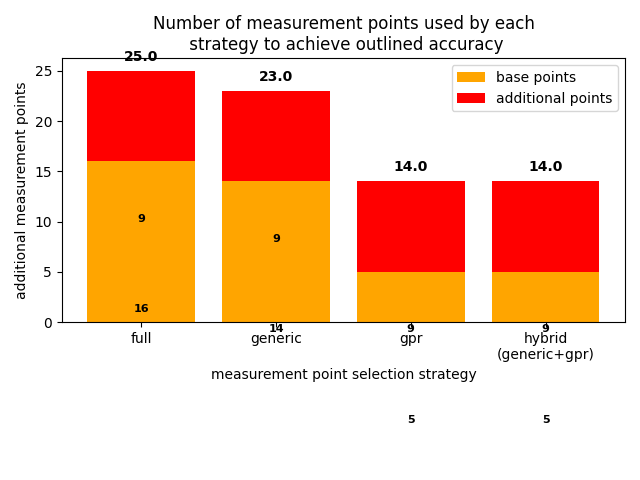
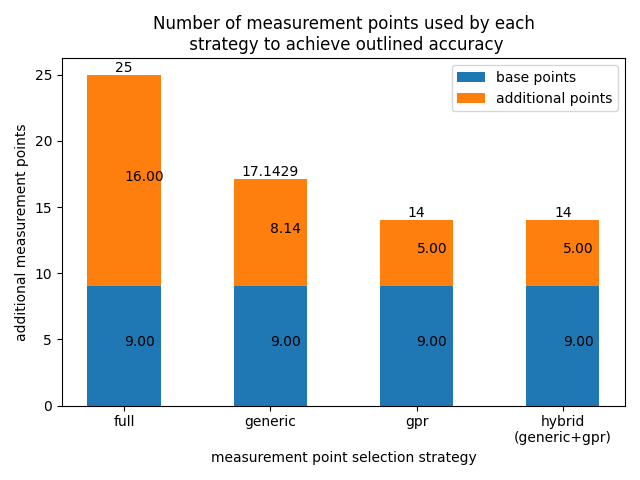
finished plots for case study

diff --git a/case_study.py b/case_study.py
@@ -33,6 +33,7 @@ from extrap.entities.measurement import Measurement
 import matplotlib.pyplot as plt
 import numpy as np
 import pandas as pd
+from plotting import plot_measurement_point_number, plot_model_accuracy, plot_costs
 
 def percentage_error(true_value, measured_value):
     error = abs(true_value - measured_value)
@@ -621,6 +622,10 @@ def main():
 
                 #print("selected_points:",selected_points)
 
+                # calculate the cost for the selected base points
+                base_point_cost = calculate_selected_point_cost(selected_points, experiment, callpath_id, metric_id)
+                base_point_cost = base_point_cost / (total_cost / 100)
+
                 # add some additional single points
 
                 # select x cheapest measurement(s) that are not part of the list so far
@@ -797,76 +802,54 @@ def main():
                 pass
 
 
-        print("kernels_used:",kernels_used)
+        print("Number of kernels used:",kernels_used)
+
+        #TODO: until the other strategies are working
+        acurracy_bucket_counter_gpr = copy.deepcopy(acurracy_bucket_counter_generic)
+        acurracy_bucket_counter_hybrid = copy.deepcopy(acurracy_bucket_counter_generic)
 
         print("acurracy_bucket_counter_full:",acurracy_bucket_counter_full)
         print("acurracy_bucket_counter_generic:",acurracy_bucket_counter_generic)
+        print("acurracy_bucket_counter_generic:",acurracy_bucket_counter_gpr)
+        print("acurracy_bucket_counter_generic:",acurracy_bucket_counter_hybrid)
 
         # calculate the percentages for each accuracy bucket
-        nr_callpaths = len(experiment.callpaths)
         percentage_bucket_counter_full = calculate_percentage_of_buckets(acurracy_bucket_counter_full, kernels_used)
         print("percentage_bucket_counter_full:",percentage_bucket_counter_full)
         percentage_bucket_counter_generic = calculate_percentage_of_buckets(acurracy_bucket_counter_generic, kernels_used)
         print("percentage_bucket_counter_generic:",percentage_bucket_counter_generic)
+        percentage_bucket_counter_gpr = calculate_percentage_of_buckets(acurracy_bucket_counter_gpr, kernels_used)
+        print("percentage_bucket_counter_gpr:",percentage_bucket_counter_gpr)
+        percentage_bucket_counter_hybrid = calculate_percentage_of_buckets(acurracy_bucket_counter_hybrid, kernels_used)
+        print("percentage_bucket_counter_hybrid:",percentage_bucket_counter_hybrid)
 
+        # plot the results of the model accuracy analysis
+        plot_model_accuracy(percentage_bucket_counter_full, percentage_bucket_counter_generic, percentage_bucket_counter_gpr, percentage_bucket_counter_hybrid)
         
-
-        X = ['+-5%','+-10%','+-15%','+-20%']
-        full = [percentage_bucket_counter_full["5"], 
-                percentage_bucket_counter_full["10"], 
-                percentage_bucket_counter_full["15"], 
-                percentage_bucket_counter_full["20"]]
-        generic = [percentage_bucket_counter_generic["5"],
-                    percentage_bucket_counter_generic["10"],
-                    percentage_bucket_counter_generic["15"],
-                    percentage_bucket_counter_generic["20"]]
-
-        X_axis = np.arange(len(X))
-
-        b1 = plt.bar(X_axis - 0.2, full, 0.4, label = 'Full matrix points')
-        b2 = plt.bar(X_axis + 0.2, generic, 0.4, label = 'Generic Strategy')
-
-        plt.bar_label(b1, label_type='edge')
-        plt.bar_label(b2, label_type='edge')
-        
-        plt.xticks(X_axis, X)
-        plt.xlabel("Accuracy Buckets")
-        plt.ylabel("Percentage of models")
-        plt.title("Percentage of Models in each Accuracy Bucket")
-        plt.legend()
-        plt.savefig('accuracy.png')
-        plt.show()
-        
-        mean_budget_generic = np.mean(percentage_cost_generic_container)
+        mean_budget_generic = np.nanmean(percentage_cost_generic_container)
         print("mean_budget_generic:",mean_budget_generic)
 
-        mean_add_points_generic = np.mean(add_points_generic_container)
+        mean_add_points_generic = np.nanmean(add_points_generic_container)
         print("mean_add_points_generic:",mean_add_points_generic)
 
         #TODO: calculate this mean_budget_gpr
-        mean_budget_gpr = 10
+        mean_budget_gpr = base_point_cost+10
 
         #TODO: calculate this mean_budget_hybrid
-        mean_budget_hybrid = 15
+        mean_budget_hybrid = base_point_cost+15
 
-        mean_budget_generic = float("{:.2f}".format(mean_budget_generic))
-        mean_budget_gpr = float("{:.2f}".format(mean_budget_gpr))
-        mean_budget_hybrid = float("{:.2f}".format(mean_budget_hybrid))
+        used_costs = {
+            "base points": np.array([base_point_cost, base_point_cost, base_point_cost, base_point_cost]),
+            "additional points": np.array([100-base_point_cost, mean_budget_generic-base_point_cost, mean_budget_gpr-base_point_cost, mean_budget_hybrid-base_point_cost]),
+        }
 
-        langs = ["full", "generic", "gpr", "hybrid\n(generic+gpr)"]
-        cost = [100, mean_budget_generic, mean_budget_gpr, mean_budget_hybrid]
-        
-        b1 = plt.bar(langs, cost, 0.4)
-        
-        plt.bar_label(b1, label_type='edge')
-        
-        plt.xticks(np.arange(len(langs)), langs)
-        plt.xlabel("masurement point selection strategy")
-        plt.ylabel("percentage of budget")
-        plt.title("Modeling Budget used by each strategy to achieve outlined accuracy")
-        plt.tight_layout()
-        plt.savefig('cost.png')
-        plt.show()
+        # plot the analysis result for the costs and budgets
+        plot_costs(used_costs, base_point_cost)
+
+        add_points = {
+            "base points": np.array([min_points, min_points, min_points, min_points]),
+            "additional points": np.array([len(experiment.coordinates)-min_points, mean_add_points_generic, 5, 5]),
+        }
 
         #TODO: calculate this mean_budget_gpr
         mean_add_points_gpr = 10
@@ -874,102 +857,12 @@ def main():
         #TODO: calculate this mean_budget_hybrid
         mean_add_points_hybrid = 15
 
-        #add_points = [len(experiment.coordinates), mean_add_points_generic, mean_add_points_gpr, mean_add_points_hybrid]
-        add_points = {
-            "base points": np.array([min_points, min_points, min_points, min_points]),
-            "additional points": np.array([len(experiment.coordinates)-min_points, mean_add_points_generic, 5, 5]),
-        }
-
-        print(min_points)
-
-        fig, ax = plt.subplots()
-        bottom = np.zeros(4)
-
-        for boolean, add_point in add_points.items():
-            p = ax.bar(langs, add_point, 0.5, label=boolean, bottom=bottom)
-            bottom += add_point
-        ax.bar_label(p, label_type='edge')
-        ax.legend(loc="upper right")
-        plt.xlabel("measurement Point selection strategy")
-        plt.ylabel("additional measurement points")
-        plt.title("Number of measurement points used by each\n strategy to achieve outlined accuracy")
-        plt.tight_layout()
-        plt.savefig('additional_points.png')
-        plt.show()
-        
-        """b1 = plt.bar(langs, add_points, 0.4)
-        
-        plt.bar_label(b1, label_type='edge')
-        
-        plt.xticks(np.arange(len(langs)), langs)
-        plt.xlabel("measurement Point selection strategy")
-        plt.ylabel("additional measurement points")
-        plt.title("Additional measurement points used by each\n strategy to achieve outlined accuracy")
-        plt.tight_layout()
-        plt.savefig('additional_points.png')
-        plt.show()"""
-            
-
-
-        from plotting import plot_measurement_point_number
-        
-        """tips = sns.load_dataset('tips')
-        # Let's massage the data a bit to be aggregated by day of week, with
-        # columns for each gender. We could leave it in long format as well (
-        # with gender as values in a single column).
-        agg_tips = tips.groupby(['day', 'sex'])['tip'].sum().unstack().fillna(0)
-
-        print("agg_tips:",agg_tips)
-        """
-        
-
-        #[min_points, min_points, min_points, min_points]
-        #[len(experiment.coordinates)-min_points, mean_add_points_generic, 5, 5]
-
-        df1 = pd.DataFrame([
-            ["additional points", "full", len(experiment.coordinates)-min_points],
-            ["additional points", "generic", mean_add_points_generic],
-            ["additional points", "gpr", 5],
-            ["additional points", "hybrid\n(generic+gpr)", 5],
-            ["base points","full", min_points],
-            ["base points","generic", min_points],
-            ["base points","gpr", min_points],
-            ["base points", "hybrid\n(generic+gpr)", min_points]
-                            ], index=["a", "b", "c", "d", "e", "f", "g", "h"], columns=["type", "strategy", "value"])
-        df2 = pd.DataFrame(data=df1, index=["a", "b", "c", "d", "e", "f", "g", "h"])
-        print(df2)
-
-        #TODO: need to get the type in the right order... is shown incorrectly in the chart...
-        # base need to be on the bottom part...
-
-        agg_df2 = df2.groupby(['strategy', 'type'])['value'].sum().unstack().fillna(0)
-        #agg_df2.sort_values(by="type") 
-
-        print(agg_df2)
-
-        plot_measurement_point_number(agg_df2)
-
-        
-
-
-
-
-        # format modeler output into text
-        #text = format_output(experiment, printtype)
-
-        # print formatted output to command line
-        #print(text)
-
-        # save formatted output to text file
-        #if print_output:
-        #    save_output(text, print_path)
+        # plot the analysis result for the additional measurement point numbers
+        plot_measurement_point_number(add_points, min_points)
 
     else:
         logging.error("No file path given to load files.")
         sys.exit(1)
-    
-
 
 if __name__ == "__main__":
     main()
-

diff --git a/plotting.py b/plotting.py
@@ -1,59 +1,116 @@
 from matplotlib import pyplot as plt
 import numpy as np
 
-def plot_measurement_point_number(agg_tips):
-  
+def plot_model_accuracy(percentage_bucket_counter_full, percentage_bucket_counter_generic, percentage_bucket_counter_gpr, percentage_bucket_counter_hybrid):
+    X = ['+-5%','+-10%','+-15%','+-20%']
+    full = [percentage_bucket_counter_full["5"], 
+            percentage_bucket_counter_full["10"], 
+            percentage_bucket_counter_full["15"], 
+            percentage_bucket_counter_full["20"]]
+    generic = [percentage_bucket_counter_generic["5"],
+                percentage_bucket_counter_generic["10"],
+                percentage_bucket_counter_generic["15"],
+                percentage_bucket_counter_generic["20"]]
+    gpr = [percentage_bucket_counter_gpr["5"],
+                percentage_bucket_counter_gpr["10"],
+                percentage_bucket_counter_gpr["15"],
+                percentage_bucket_counter_gpr["20"]]
+    hybrid = [percentage_bucket_counter_hybrid["5"],
+                percentage_bucket_counter_hybrid["10"],
+                percentage_bucket_counter_hybrid["15"],
+                percentage_bucket_counter_hybrid["20"]]
+
+    X_axis = np.arange(len(X))
+
+    b1 = plt.bar(X_axis - 0.3, full, 0.2, label = 'Full matrix points')
+    b2 = plt.bar(X_axis - 0.1, generic, 0.2, label = 'Generic strategy')
+    b3 = plt.bar(X_axis+0.1, gpr, 0.2, label = 'GPR strategy')
+    b4 = plt.bar(X_axis + 0.3, hybrid, 0.2, label = 'Hybrid strategy')
+
+    plt.bar_label(b1, label_type='edge', fontsize=8)
+    plt.bar_label(b2, label_type='edge', fontsize=8)
+    plt.bar_label(b3, label_type='edge', fontsize=8)
+    plt.bar_label(b4, label_type='edge', fontsize=8)
+    
+    plt.xticks(X_axis, X)
+    plt.xlabel("Accuracy buckets")
+    plt.ylabel("Percentage of models [%]")
+    plt.title("Percentage of models in each accuracy bucket")
+    plt.legend(loc='center left', bbox_to_anchor=(1, 0.5))
+    plt.tight_layout()
+    plt.savefig('accuracy.png')
+    plt.show()
+
+def plot_costs(used_costs, base_budget):
+    """mean_budget_generic = float("{:.2f}".format(mean_budget_generic))
+    mean_budget_gpr = float("{:.2f}".format(mean_budget_gpr))
+    mean_budget_hybrid = float("{:.2f}".format(mean_budget_hybrid))
+    langs = ["full", "generic", "gpr", "hybrid\n(generic+gpr)"]
+    cost = [100, mean_budget_generic, mean_budget_gpr, mean_budget_hybrid]
+    b1 = plt.bar(langs, cost, 0.4)
+    plt.bar_label(b1, label_type='edge')
+    plt.xticks(np.arange(len(langs)), langs)
+    plt.xlabel("masurement point selection strategy")
+    plt.ylabel("percentage of budget [%]")
+    plt.title("Modeling budget used by each strategy to achieve outlined accuracy")
+    plt.tight_layout()
+    plt.savefig('cost.png')
+    plt.show()"""
+    langs = ["full", "generic", "gpr", "hybrid\n(generic+gpr)"]
     fig, ax = plt.subplots()
-
-    colors = ['#FFA500', '#FF0000']
-    bottom = np.zeros(len(agg_tips))
-
-    print("agg_tips.columns:",agg_tips.columns)
-
-    agg_tips.columns = sorted(agg_tips.columns, reverse=True)
-
-    print("agg_tips.columns:",agg_tips.columns)
-    #TODO: that does not change something...
-
-    for i, col in enumerate(agg_tips.columns):
-        print("agg_tips.index:",agg_tips.index)
-        print("col:",col)
-        ax.bar(
-        agg_tips.index, agg_tips[col], bottom=bottom, label=col, color=colors[i])
-        bottom += np.array(agg_tips[col])
-
-    totals = agg_tips.sum(axis=1)
-    y_offset = 1
-    for i, total in enumerate(totals):
-        ax.text(totals.index[i], total + y_offset, total, ha='center',
-            weight='bold')
-
-    # Let's put the annotations inside the bars themselves by using a
-    # negative offset.
-    y_offset = -15
-    # For each patch (basically each rectangle within the bar), add a label.
-    for bar in ax.patches:
-        ax.text(
-        # Put the text in the middle of each bar. get_x returns the start
-        # so we add half the width to get to the middle.
-        bar.get_x() + bar.get_width() / 2,
-        # Vertically, add the height of the bar to the start of the bar,
-        # along with the offset.
-        bar.get_height() + bar.get_y() + y_offset,
-        # This is actual value we'll show.
-        round(bar.get_height()),
-        # Center the labels and style them a bit.
-        ha='center',
-        color='black',
-        weight='bold',
-        size=8
-    )
-
+    bottom = np.zeros(4)
+    bars = []
+    for boolean, add_point in used_costs.items():
+        p = ax.bar(langs, add_point, 0.5, label=boolean, bottom=bottom)
+        bottom += add_point
+        bars.append(p)
+    ax.bar_label(p, label_type='edge')
     ax.legend(loc="upper right")
+    # draw labels for individual bar parts
+    for i in range(len(langs)):
+        b = p[i]
+        w,h = b.get_width(), b.get_height()
+        x0, y0 = b.xy
+        x2, y2 = x0,y0+h
+        d=y2-y0
+        yt=y0+(d/2)
+        d=h-y2
+        yt2=y0/2
+        ax.text(langs[i], yt2, str("{:.2f}".format(base_budget)))
+        ax.text(langs[i], yt, str("{:.2f}".format(add_point[i])))
+    plt.xlabel("masurement point selection strategy")
+    plt.ylabel("percentage of budget [%]")
+    plt.title("Modeling budget used by each strategy to achieve outlined accuracy")
+    plt.tight_layout()
+    plt.savefig('cost.png')
+    plt.show()
+
+def plot_measurement_point_number(add_points, min_points):
+    langs = ["full", "generic", "gpr", "hybrid\n(generic+gpr)"]
+    fig, ax = plt.subplots()
+    bottom = np.zeros(4)
+    bars = []
+    for boolean, add_point in add_points.items():
+        p = ax.bar(langs, add_point, 0.5, label=boolean, bottom=bottom)
+        bottom += add_point
+        bars.append(p)
+    ax.bar_label(p, label_type='edge')
+    ax.legend(loc="upper right")
+    # draw labels for individual bar parts
+    for i in range(len(langs)):
+        b = p[i]
+        w,h = b.get_width(), b.get_height()
+        x0, y0 = b.xy
+        x2, y2 = x0,y0+h
+        d=y2-y0
+        yt=y0+(d/2)
+        d=h-y2
+        yt2=y0/2
+        ax.text(langs[i], yt2, str("{:.2f}".format(min_points)))
+        ax.text(langs[i], yt, str("{:.2f}".format(add_point[i])))
     plt.xlabel("measurement point selection strategy")
     plt.ylabel("additional measurement points")
     plt.title("Number of measurement points used by each\n strategy to achieve outlined accuracy")
     plt.tight_layout()
     plt.savefig('additional_points.png')
     plt.show()
-
